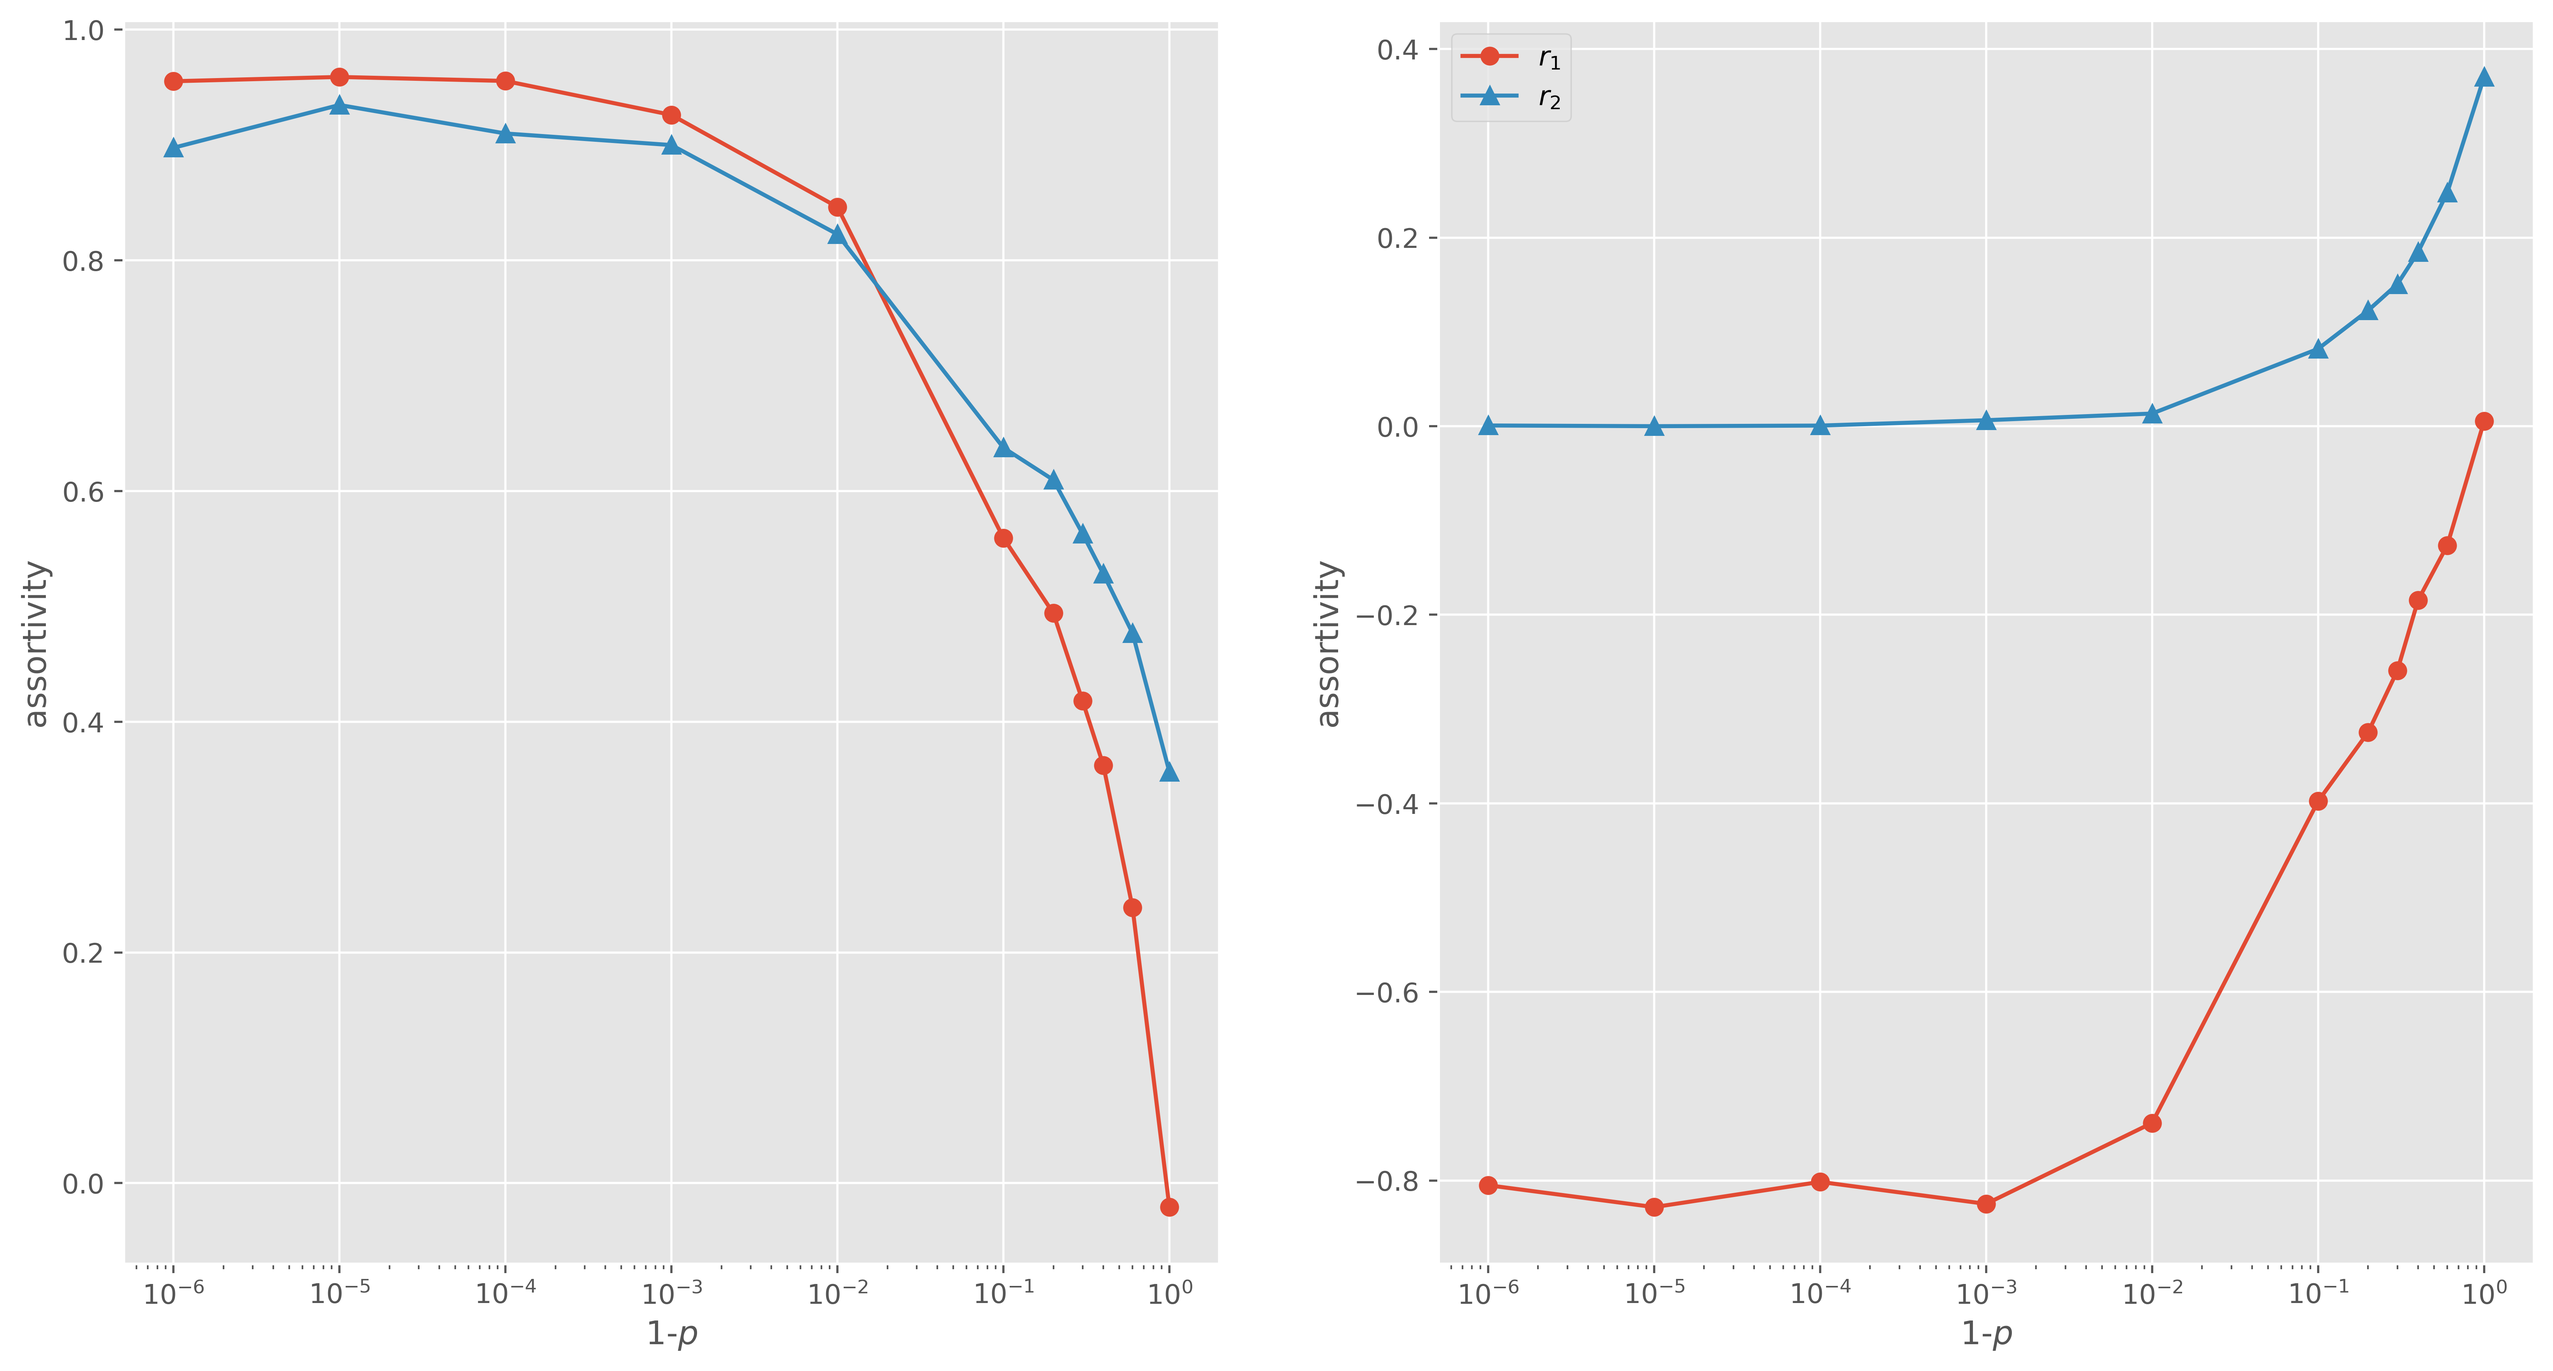
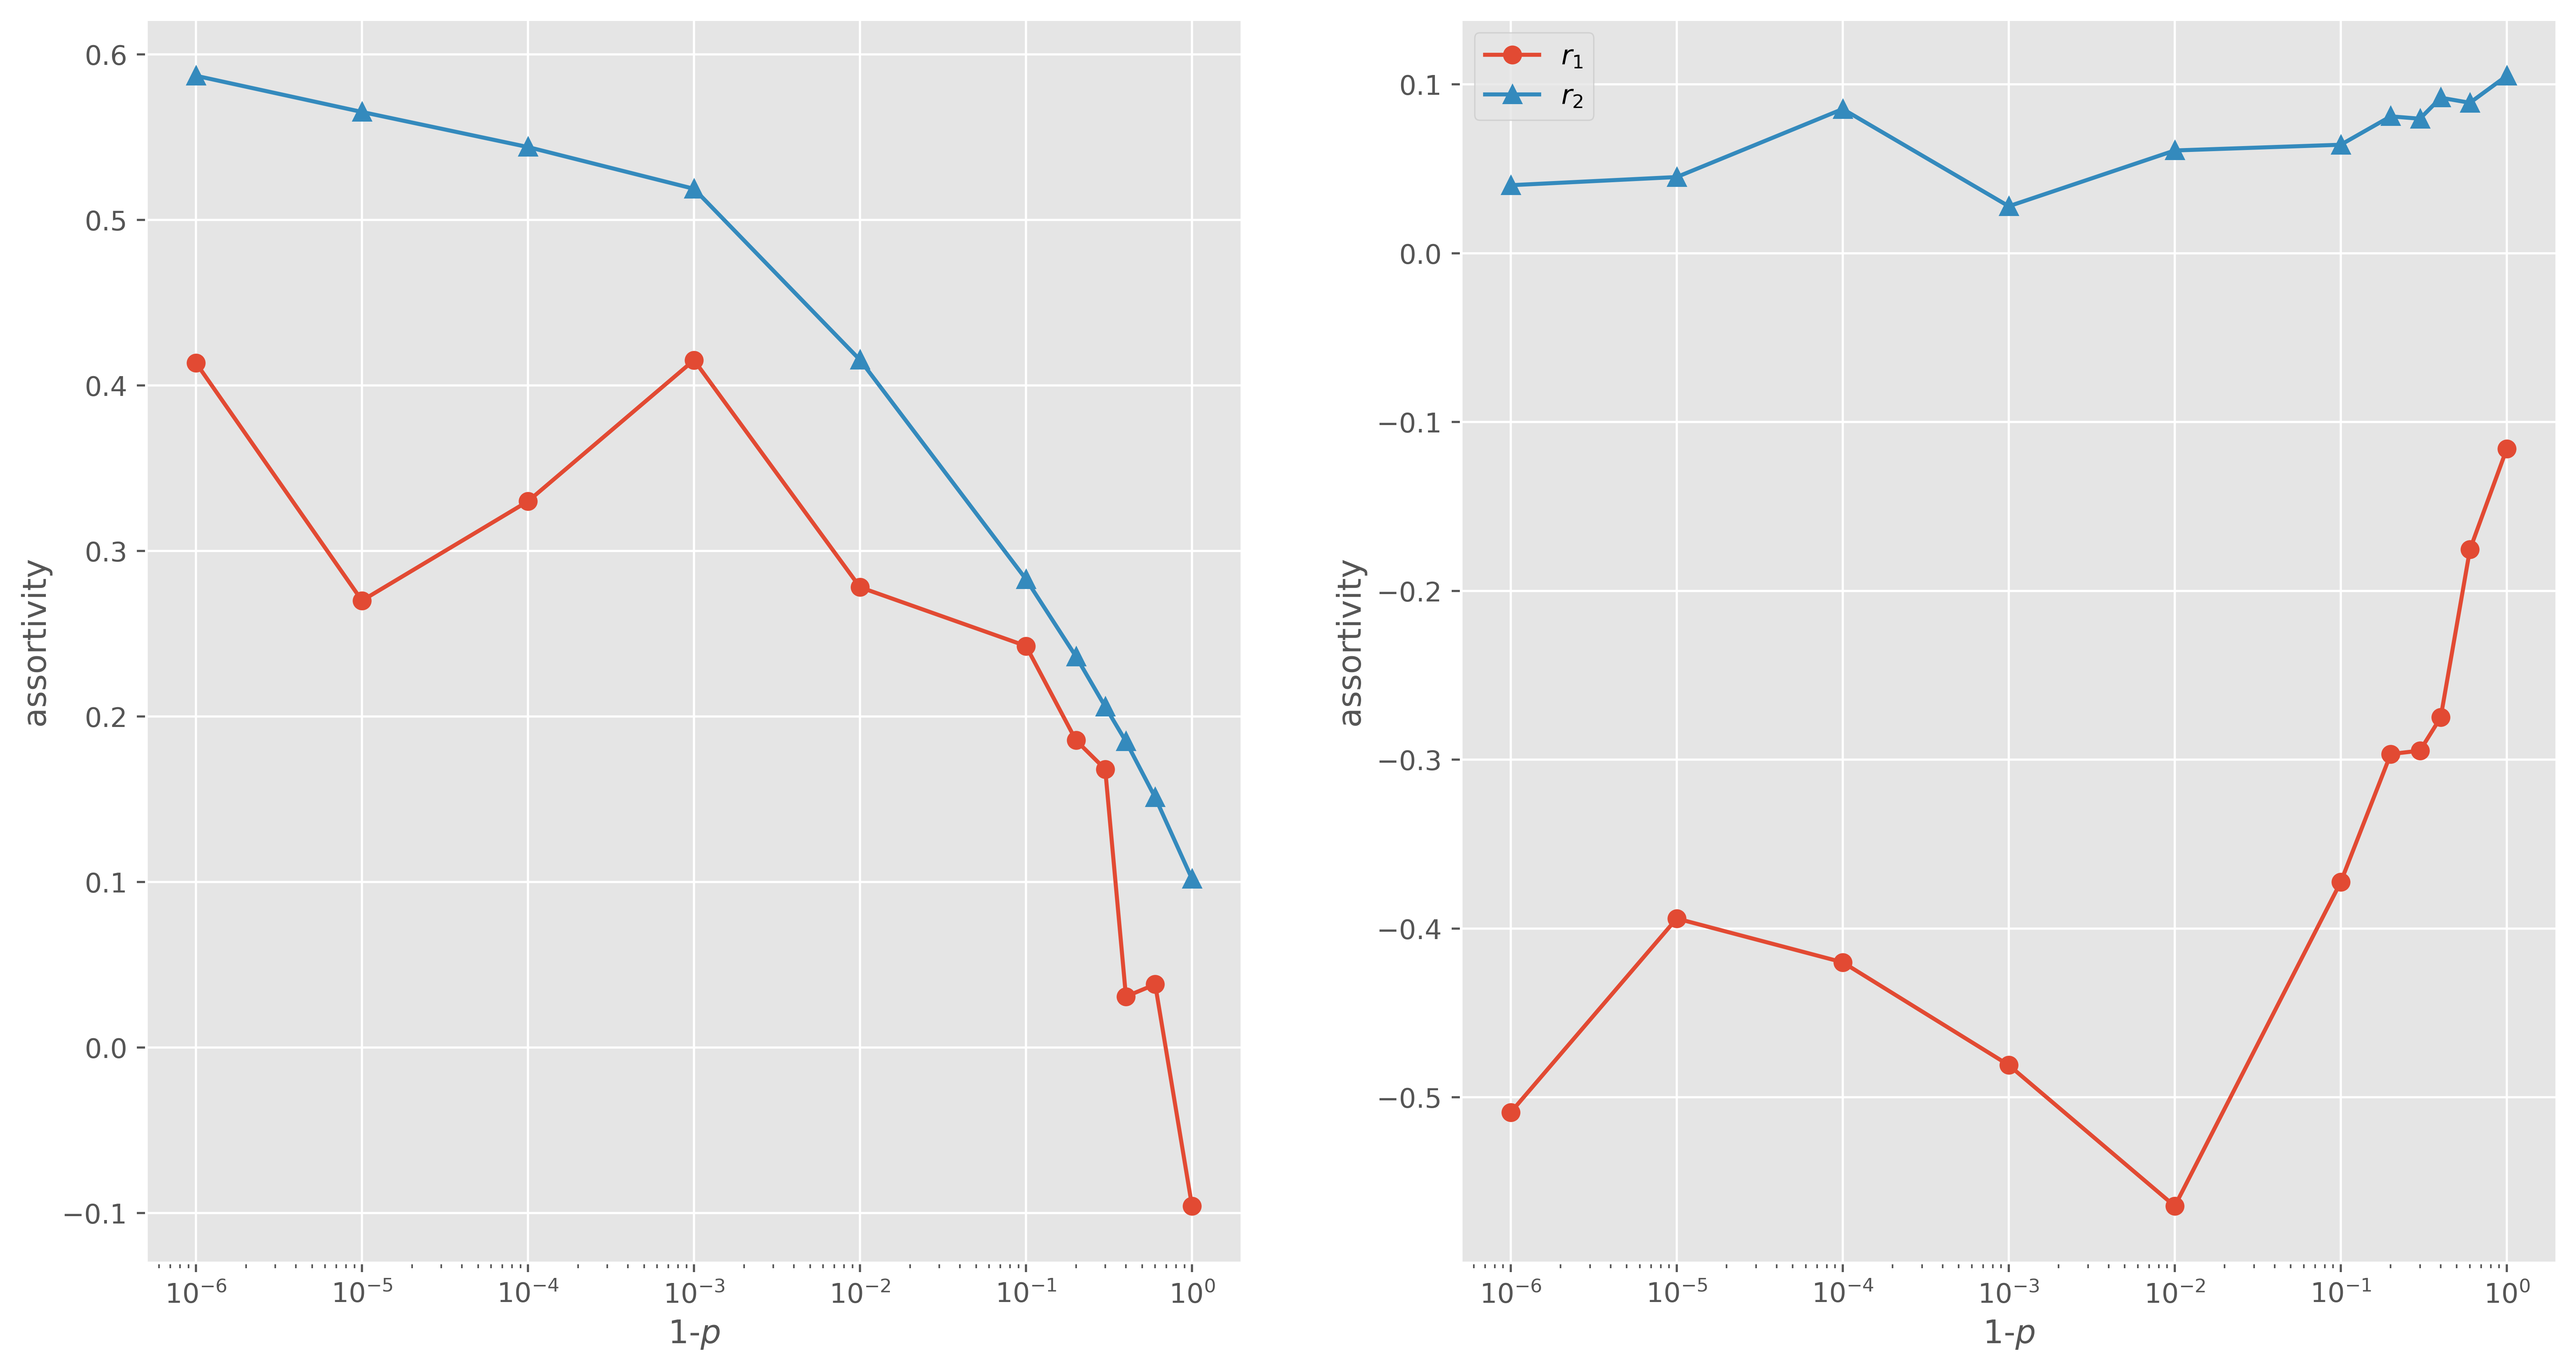
assortivity

diff --git a/assortivity.py b/assortivity.py
@@ -65,7 +65,7 @@ def calculate_ass(G, p , Iteration):
 def calculate_disass(G, p , Iteration):
     i = 0
     while i < Iteration:
-        print(i)
+        #print(i)
         edge = list(G.edges())
         degree = nx.degree(G)
         index1 = random.randint(0,len(G.edges)-1) ##随机获取第一条边
@@ -109,9 +109,10 @@ def calculate_disass(G, p , Iteration):
     return r1, r2
 
 Iteration = 1500  ##迭代次数
-P = [0.999999,0.99999,0.9999,0.999,0.99,0.9,0.8,0.7,0.6,0.4,0]
-P1 = [0.000001,0.00001,0.0001,0.001,0.01,0.1,0.2,0.3,0.4,0.6,1]
-assortivity = np.zeros((11,2))
+#P = [0.999999,0.99999,0.9999,0.999,0.99,0.9,0.8,0.7,0.6,0.4,0]
+P = [1, 0.95,  0.9, 0.85,  0.8, 0.75,  0.7, 0.65,  0.6, 0.55,  0.5, 0.45,  0.4, 0.35,  0.3, 0.25,  0.2, 0.15,  0.1, 0.05, 0]
+P1 = [0, 0.05, 0.1, 0.15, 0.2, 0.25, 0.3, 0.35, 0.4, 0.45, 0.5, 0.55, 0.6, 0.65, 0.7, 0.75, 0.8, 0.85, 0.9, 0.95, 1]
+assortivity = np.zeros((21,2))
 
 count = 0
 for i in P:
@@ -125,7 +126,7 @@ for i in P:
     assortivity[count][0] = assortivity[count][0] / 10
     assortivity[count][1] = assortivity[count][1] / 10
     count = count + 1
-assortivity1 = np.zeros((11,2))
+assortivity1 = np.zeros((21,2))
 count = 0
 for i in P:
     print(i)
@@ -137,6 +138,18 @@ for i in P:
     assortivity1[count][0] = assortivity1[count][0] / 10
     assortivity1[count][1] = assortivity1[count][1] / 10
     count = count + 1
+
+fid = open('ass.txt','w')
+
+for i in assortivity:
+    fid.write(str(i[0])+' '+str(i[1])+'\n')
+fid.close()
+
+fid1 = open('disass.txt','w')
+
+for i in assortivity1:
+    fid1.write(str(i[0])+' '+str(i[1])+'\n')
+fid1.close()
 
 plt.figure(figsize=(16,16))
 plt.style.use('ggplot')
